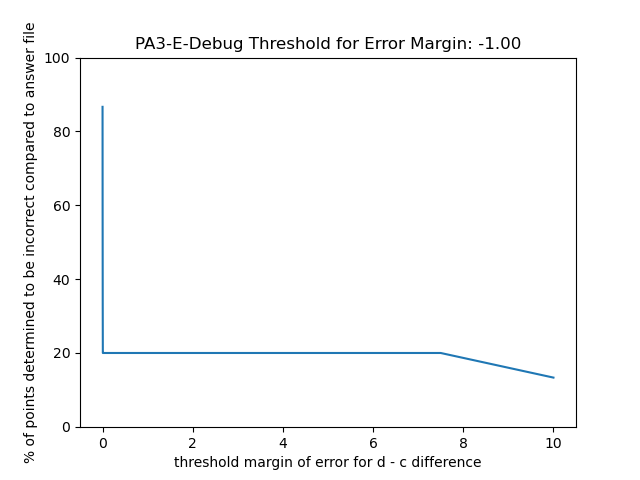
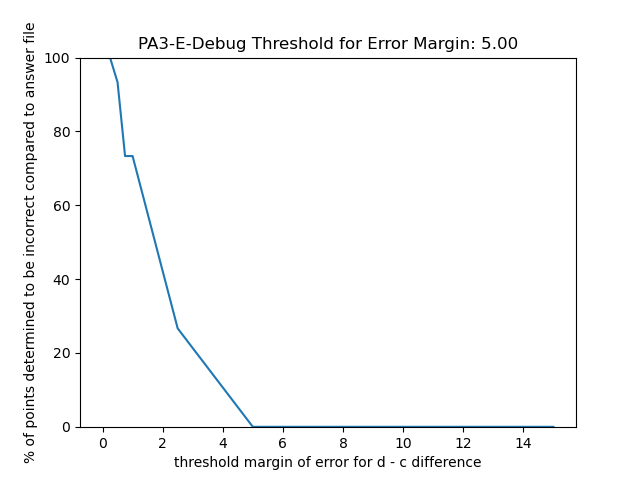
Commenting and light debugging

diff --git a/PA3/ciscode/closest.py b/PA3/ciscode/closest.py
@@ -6,12 +6,14 @@ from .frame import Frame
 def distance(
     point: np.ndarray, vertex: np.ndarray
 ) -> np.float64:
+    """Computes distance between two points."""
     return np.linalg.norm(point - vertex)
 
 
 def brute_force(
     a: np.ndarray, v: np.ndarray, t: np.ndarray
 ) -> np.ndarray:
+    """Linearly searches triangles for closest surface triangle."""
     min = np.inf
     closest = 0
 
@@ -32,7 +34,7 @@ def brute_force(
             c = triangle_bound(c, r, p)
         elif x[1] < 0:
             c = triangle_bound(c, p, q)
-        elif x[0] + x[1] > 1:
+        elif (x[0] + x[1]) > 1:
             c = triangle_bound(c, q, r)
 
         dist = distance(a, c)
@@ -44,6 +46,7 @@ def brute_force(
 
 
 def triangle_bound(c, p, q):
+    """Computes point projected on triangle edge."""
     l = np.dot((c - p), (q - p)) / np.dot((q - p), (q - p))
     l_s = max(0, min(l, 1))
 

diff --git a/PA3/ciscode/testing.py b/PA3/ciscode/testing.py
@@ -34,7 +34,7 @@ def test_similarity(comp, true, err):
 
 def resultsTable(name, out, ref, ans):
     thresholds = [.001, 0.0025, 0.005, 0.0075, 0.01, 0.025,
-                  0.05, 0.075, 0.1, 0.25, 0.5, 0.75, 1, 2.5, 5, 7.5, 10]
+                  0.05, 0.075, 0.1, 0.25, 0.5, 0.75, 1, 2.5, 5, 7.5, 10, 15]
 
     outs = [out.d, out.c, out.diff]
     refs = [ref.d, ref.c, ref.diff]
@@ -54,7 +54,7 @@ def resultsTable(name, out, ref, ans):
             for thres in thresholds:
                 inaccurate = 100 - \
                     test_similarity(outs[i], comp[j][i], thres)
-                if (inaccurate < .5 and found == False):
+                if (inaccurate < 1 and found == False):
                     acceptableThres = thres
                     found = True
                 inaccuracy.append(inaccurate)

diff --git a/PA3/pa3.py b/PA3/pa3.py
@@ -23,7 +23,7 @@ log = logging.getLogger()
 @click.command()
 @click.option("-d", "--data-dir", default="PA3/data", help="Where the data is.")
 @click.option("-o", "--output_dir", default="PA3/outputs", help="Where to store outputs.")
-@click.option("-n", "--name", default="PA3-A-Debug", help="Which experiment to run.")
+@click.option("-n", "--name", default="PA3-E-Debug", help="Which experiment to run.")
 def main(
     data_dir: str = "data", output_dir: str = "outputs", name: str = "BLAHHHH-"
 ):
